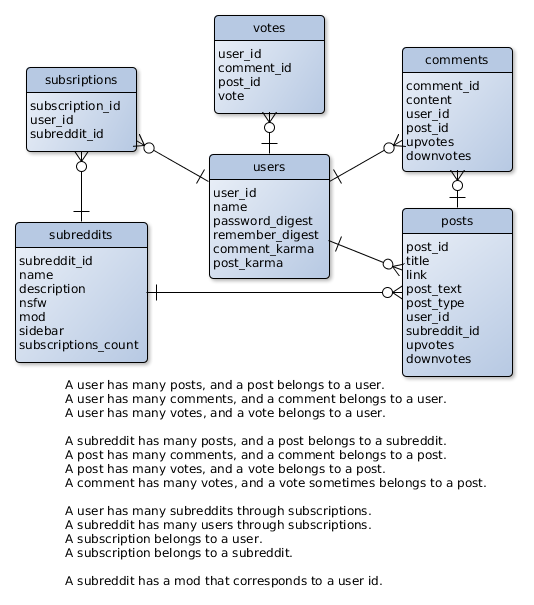
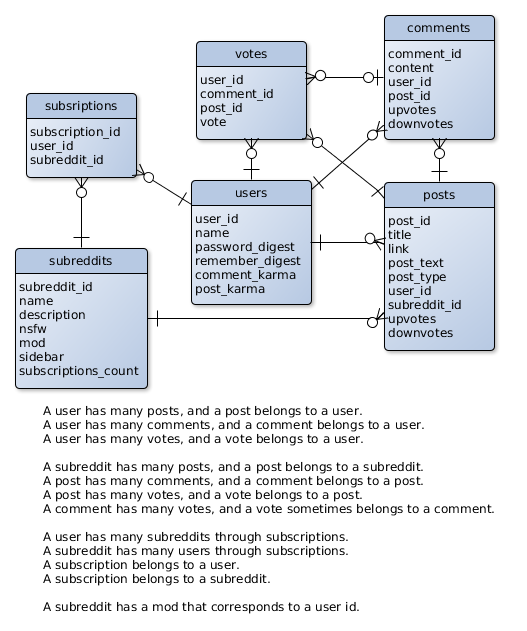
Updated data model

diff --git a/planning/micro_reddit_data_model.html b/planning/micro_reddit_data_model.html
@@ -95,17 +95,17 @@ tooltip.style.display = "none";
 <div class="tooltip" id="n2">posts</div>
 <div class="tooltip" id="n3">comments</div>
 <div class="tooltip" id="n4">subsriptions</div>
-<div class="tooltip" id="n5">A user has many posts, and a post belongs to a user.<br>A user has many comments, and a comment belongs to a user.<br>A user has many votes, and a vote belongs to a user.<br><br>A subreddit has many posts, and a post belongs to a subreddit.<br>A post has many comments, and a comment belongs to a post.<br>A post has many votes, and a vote belongs to a post.<br>A comment has many votes, and a vote sometimes belongs to a post.<br><br>A user has many subreddits through subscriptions.<br>A subreddit has many users through subscriptions.<br>A subscription belongs to a user.<br>A subscription belongs to a subreddit.<br><br>A subreddit has a mod that corresponds to a user id.</div>
+<div class="tooltip" id="n5">A user has many posts, and a post belongs to a user.<br>A user has many comments, and a comment belongs to a user.<br>A user has many votes, and a vote belongs to a user.<br><br>A subreddit has many posts, and a post belongs to a subreddit.<br>A post has many comments, and a comment belongs to a post.<br>A post has many votes, and a vote belongs to a post.<br>A comment has many votes, and a vote sometimes belongs to a comment.<br><br>A user has many subreddits through subscriptions.<br>A subreddit has many users through subscriptions.<br>A subscription belongs to a user.<br>A subscription belongs to a subreddit.<br><br>A subreddit has a mod that corresponds to a user id.</div>
 <div class="tooltip" id="n6">votes</div>
 
 <map name="image1_1">
-  <area shape="rect" coords="214,15,324,113" alt="" onmouseover="showTooltip('n6')" onmouseout="hideTooltip()"/>
-  <area shape="rect" coords="33,399,519,567" alt="" onmouseover="showTooltip('n5')" onmouseout="hideTooltip()"/>
-  <area shape="rect" coords="26,67,136,151" alt="" onmouseover="showTooltip('n4')" onmouseout="hideTooltip()"/>
-  <area shape="rect" coords="402,47,512,171" alt="" onmouseover="showTooltip('n3')" onmouseout="hideTooltip()"/>
-  <area shape="rect" coords="402,208,512,376" alt="" onmouseover="showTooltip('n2')" onmouseout="hideTooltip()"/>
-  <area shape="rect" coords="15,222,147,362" alt="" onmouseover="showTooltip('n1')" onmouseout="hideTooltip()"/>
-  <area shape="rect" coords="209,154,329,278" alt="" onmouseover="showTooltip('n0')" onmouseout="hideTooltip()"/>
+  <area shape="rect" coords="196,41,306,139" alt="" onmouseover="showTooltip('n6')" onmouseout="hideTooltip()"/>
+  <area shape="rect" coords="26,425,512,593" alt="" onmouseover="showTooltip('n5')" onmouseout="hideTooltip()"/>
+  <area shape="rect" coords="26,93,136,177" alt="" onmouseover="showTooltip('n4')" onmouseout="hideTooltip()"/>
+  <area shape="rect" coords="384,15,494,139" alt="" onmouseover="showTooltip('n3')" onmouseout="hideTooltip()"/>
+  <area shape="rect" coords="384,182,494,350" alt="" onmouseover="showTooltip('n2')" onmouseout="hideTooltip()"/>
+  <area shape="rect" coords="15,248,147,388" alt="" onmouseover="showTooltip('n1')" onmouseout="hideTooltip()"/>
+  <area shape="rect" coords="191,180,311,304" alt="" onmouseover="showTooltip('n0')" onmouseout="hideTooltip()"/>
 </map>
 
 
